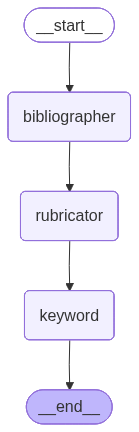
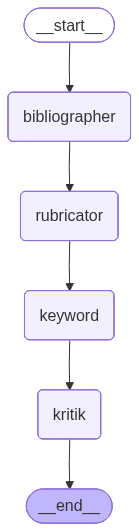
install

Changed region(s): [[0.0288, 0.0, 0.9496, 0.9931]]

diff --git a/graph_orchestrator.py b/graph_orchestrator.py
@@ -4,6 +4,7 @@ from langgraph.graph import StateGraph, START, END
 from agent_bibliographer import BibliographerAgent
 from agent_rubricator import RubricatorAgent
 from agent_keyword import KeywordAgent
+from agent_kritik import KritikAgent
 from IPython.display import Image, display
 
 # Определяем состояние графа
@@ -11,8 +12,9 @@ class GraphState(TypedDict):
     """Общее состояние для всех узлов графа."""
     article_url: str
     article_text: str
-    rubric_result1: str
-    rubric_result2: str
+    rubric_result_keyword: str
+    rubric_result_rubricator: str
+    rubric_result_kritik: str
     status: str
 
 
@@ -22,6 +24,7 @@ def create_multi_agent_graph(auth_key: str):
     bibliographer = BibliographerAgent(auth_key=auth_key)
     rubricator = RubricatorAgent(auth_key=auth_key)
     keyword = KeywordAgent(auth_key=auth_key)
+    kritik = KritikAgent(auth_key=auth_key)
 
     # Создаем граф состояний
     workflow = StateGraph(GraphState)
@@ -30,12 +33,14 @@ def create_multi_agent_graph(auth_key: str):
     workflow.add_node("bibliographer", bibliographer.run)
     workflow.add_node("rubricator", rubricator.run)
     workflow.add_node("keyword", keyword.run)
+    workflow.add_node("kritik", kritik.run)
 
     # Определяем последовательность выполнения
     workflow.add_edge(START, "bibliographer")
     workflow.add_edge("bibliographer", "rubricator")
     workflow.add_edge("rubricator", "keyword")
-    workflow.add_edge("keyword", END)
+    workflow.add_edge("keyword", "kritik")
+    workflow.add_edge("kritik", END)
 
     # Компилируем граф
     graph = workflow.compile()
@@ -46,15 +51,16 @@ def create_multi_agent_graph(auth_key: str):
 
 if __name__ == "__main__":
 
[1 lines of base64/hex data omitted]
+    AUTH_KEY = "=="  # Вставьте ваш ключ GigaChat
     ARTICLE_URL = "https://ilibrary.ru/text/1540/p.1/index.html"
 
     graph = create_multi_agent_graph(AUTH_KEY)
     initial_state = {
         "article_url": ARTICLE_URL,
         "article_text": "",
-        "rubric_result1": "",
-        "rubric_result2": "",
+        "rubric_result_rubrictor": "",
+        "rubric_result_keyword": "",
+        "rubric_result_kritik": "",
         "status": "started"
     }
 
@@ -68,5 +74,8 @@ if __name__ == "__main__":
         f.write(png_data)
 
 
-    print(final_state['rubric_result1'])
-    print(final_state['rubric_result2'])
+    print(final_state['rubric_result_rubricator'])
+    print('\n')
+    print(final_state['rubric_result_keyword'])
+    print('\n')
+    print(final_state['rubric_result_kritik'])

diff --git a/agent_kritik.py b/agent_kritik.py
@@ -1,0 +1,30 @@
+
+from langchain_gigachat.chat_models import GigaChat
+from langchain_core.messages import SystemMessage, HumanMessage
+
+
+class KritikAgent:
+    """Агент для критики научной статьи."""
+
+    def __init__(self, auth_key: str):
+        self.auth_key = auth_key
+        self.model = GigaChat(credentials=auth_key, verify_ssl_certs=False)
+
+    def run(self, state: dict) -> dict:
+
+        article_text = state.get("article_text", "")
+
+        prompt = open('prompt_kritik.txt', 'r', encoding='utf-8').read()
+
+        messages = [
+            SystemMessage(content=prompt),
+            HumanMessage(content=article_text[:10000])  # Ограничиваем длину для GigaChat
+        ]
+
+        result = self.model.invoke(messages).content
+
+
+        return {
+            "rubric_result_kritik": result,
+            "status": "completed"
+        }

diff --git a/agent_keyword.py b/agent_keyword.py
@@ -14,7 +14,7 @@ class KeywordAgent:
 
         article_text = state.get("article_text", "")
 
-        prompt = open('prompt.txt', 'r', encoding='utf-8').read()
+        prompt = open('prompt_keyword.txt', 'r', encoding='utf-8').read()
 
         messages = [
             SystemMessage(content=prompt),
@@ -25,6 +25,6 @@ class KeywordAgent:
 
 
         return {
-            "rubric_result2": result,
+            "rubric_result_keyword": result,
             "status": "completed"
         }

diff --git a/agent_rubricator.py b/agent_rubricator.py
@@ -25,6 +25,6 @@ class RubricatorAgent:
 
 
         return {
-            "rubric_result1": result,
+            "rubric_result_rubricator": result,
             "status": "completed"
         }
